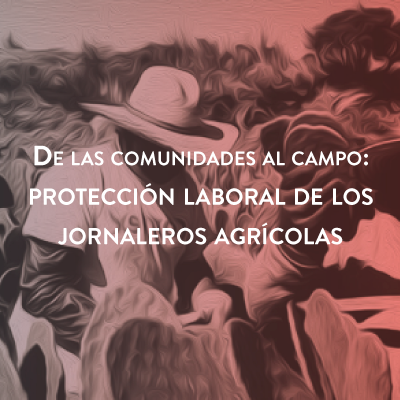
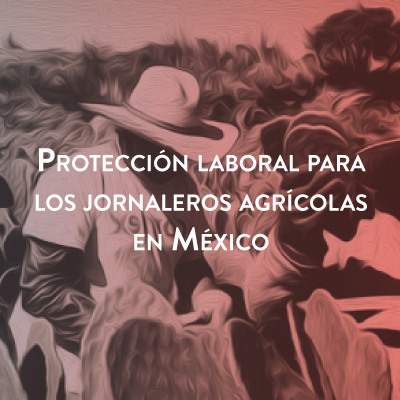
Actualización de sesión, datos de trabajo, imágenes y typo

Changed region(s): [[0.06, 0.36, 0.93, 0.54], [0.15, 0.57, 0.87, 0.63]]

diff --git a/sitio/dstrabajo.html b/sitio/dstrabajo.html
@@ -208,6 +208,8 @@
                   <li class="is_selected" data-filter="*">Todos</li>
                   <li data-filter=".mayo">Día del Trabajo</li>
                   <li data-filter=".junio">Día mundial contra el Trabajo Infantil</li>
+                  <li data-filter=".julio">Día mundial de la Población</li>
+                  <li data-filter=".julio">Día internacional de la Juventud</li>
                 </ul>
               </div>
             </div>
@@ -286,6 +288,61 @@
                       <div class="single-photo-inner">
                         <a href="images/12junio3.png" data-rel="lightcase:datoSobreTrabajo" class="thumbnail">
                           <img src="images/12junio3.png" alt="12 de junio | Día mundial contra el Trabajo Infantil" class="img-responsive">
+                        </a>
+                      </div>
+                    </div>
+                  </div>
+                </div>
+                <div class="single-item julio">
+                  <div class="gallery-img">
+                    <div class="sinlge-photo">
+                      <div class="single-photo-inner">
+                        <a href="images/11julio1.png" data-rel="lightcase:datoSobreTrabajo" class="thumbnail">
+                          <img src="images/11julio1.png" alt="11 de julio | Día mundial de la Población" class="img-responsive">
+                        </a>
+                      </div>
+                    </div>
+                  </div>
+                </div>
+                <div class="single-item julio">
+                  <div class="gallery-img">
+                    <div class="sinlge-photo">
+                      <div class="single-photo-inner">
+                        <a href="images/11julio2.png" data-rel="lightcase:datoSobreTrabajo" class="thumbnail">
+                          <img src="images/11julio2.png" alt="11 de julio | Día mundial de la Población" class="img-responsive">
+                        </a>
+                      </div>
+                    </div>
+                  </div>
+                </div>
+                 <div class="single-item agosto">
+                  <div class="gallery-img">
+                    <div class="sinlge-photo">
+                      <div class="single-photo-inner">
+                        <a href="images/12agosto1.png" data-rel="lightcase:datoSobreTrabajo" class="thumbnail">
+                          <img src="images/12agosto1.png" alt="12 de agosto | Día internacional de la Juventud" class="img-responsive">
+                        </a>
+                      </div>
+                    </div>
+                  </div>
+                </div>
+                <div class="single-item agosto">
+                  <div class="gallery-img">
+                    <div class="sinlge-photo">
+                      <div class="single-photo-inner">
+                        <a href="images/12agosto2.png" data-rel="lightcase:datoSobreTrabajo" class="thumbnail">
+                          <img src="images/12agosto2.png" alt="12 de agosto | Día internacional de la Juventud" class="img-responsive">
+                        </a>
+                      </div>
+                    </div>
+                  </div>
+                </div>
+                <div class="single-item agosto">
+                  <div class="gallery-img">
+                    <div class="sinlge-photo">
+                      <div class="single-photo-inner">
+                        <a href="images/12agosto3.png" data-rel="lightcase:datoSobreTrabajo" class="thumbnail">
+                          <img src="images/12agosto3.png" alt="12 de agosto | Día internacional de la Juventud" class="img-responsive">
                         </a>
                       </div>
                     </div>

diff --git a/sitio/sesion4.html b/sitio/sesion4.html
@@ -223,7 +223,7 @@
           </section> -->
           <!-- FIN sección de los apuntes de la sesión -->
    <!-- Inicio sección multimedia -->
-<!-- <section class="gallery-section-two section causes-section">
+<section class="gallery-section-two section causes-section">
   <div class="container">
     <div class="row">
       <div class="gallery-image">
@@ -232,12 +232,12 @@
           <h4>Resumen de la sesión</h4>
         </div>
         <div class="embed-responsive embed-responsive-16by9">
-          <iframe class="embed-responsive-item" src="https://www.youtube-nocookie.com/embed/2KJcarX9JiI" allowfullscreen></iframe>
+          <iframe class="embed-responsive-item" src="https://www.youtube-nocookie.com/embed/bEtTlbd_nDA" allowfullscreen></iframe>
         </div>
       </div>
     </div>
   </div>
-</section> -->
+</section> 
 <!-- Muestra de los gráficos -->
 <!-- <section class="gallery-section section">
   <div class="container">

diff --git a/sitio/index.html b/sitio/index.html
@@ -263,7 +263,7 @@ ga('send', 'pageview');
       <i class="fa fa-pencil fa-4x" aria-hidden="true"></i>
       <h3><br>Apuntes para la equidad</h3>
       <a href="apuntes1.html" class="btn-equidad">No. 1 | El futuro del trabajo automotriz en México</a><a href="apuntes2.html" class="btn-equidad">No. 2 | Condiciones laborales de los migrantes de retorno de Estados Unidos</a>
-		 <a href="apuntes3.html" class="btn-equidad">No. 3 | Protección laboral de los jornaleros agrícolas en México</a>
+		 <a href="apuntes3.html" class="btn-equidad">No. 3 | Protección laboral para los jornaleros agrícolas en México</a>
     </div>
   </div>
 </div>

diff --git a/sitio/apuntes1.html b/sitio/apuntes1.html
@@ -149,7 +149,7 @@
                                       </a>
                                       <ul class="dropdown-menu">
                                         <li class="active">
-                                            <a href="#">
+                                            <a href="publicaciones.html">
                                               Apuntes para la equidad
                                             </a>
                                         </li>

diff --git a/sitio/apuntes2.html b/sitio/apuntes2.html
@@ -145,7 +145,7 @@
                                       </a>
                                       <ul class="dropdown-menu">
                                         <li class="active">
-                                            <a href="#">
+                                            <a href="publicaciones.html">
                                               Apuntes para la equidad
                                             </a>
                                         </li>

diff --git a/sitio/apuntes3.html b/sitio/apuntes3.html
@@ -145,7 +145,7 @@
                                       </a>
                                       <ul class="dropdown-menu">
                                         <li class="active">
-                                            <a href="#">
+                                            <a href="publicaciones.html">
                                               Apuntes para la equidad
                                             </a>
                                         </li>
